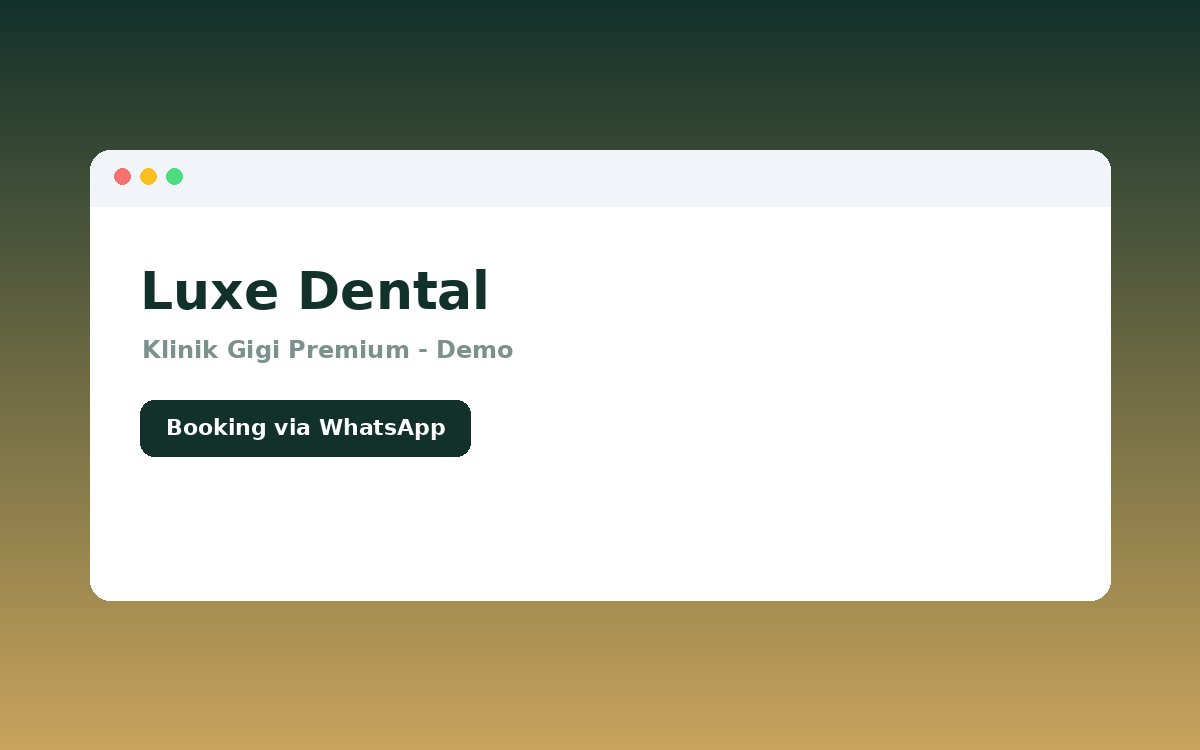
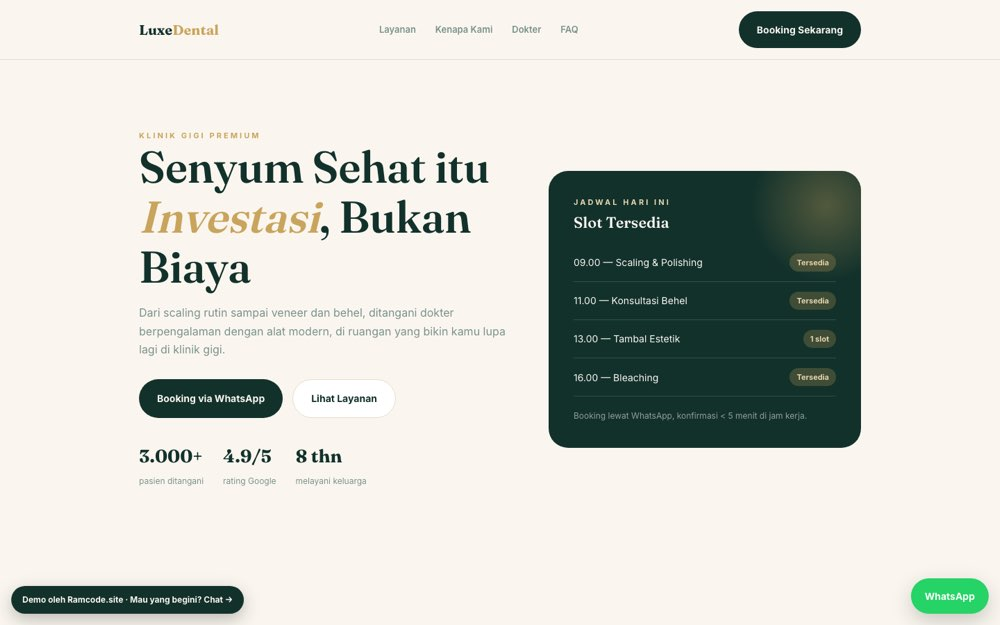
Thumbnail katalog pakai tangkapan layar situs, plus perbaikan hero Raudhah
Delapan demo (enam travel, Luxe Dental, KOKOH Kontraktor) sekarang memakai
tangkapan layar halamannya sendiri sebagai thumbnail, bukan foto lepas,
supaya sederet dengan kartu Sistem Kasir yang sudah begitu sejak awal.
Ditangkap di 1440x900 lalu dijadikan JPG 1000x625.

Sekalian membetulkan tumpang tindih di hero Raudhah pada lebar 980px ke
atas: .pick memakai grid dengan kolom yang bisa menyusut di bawah 300px,
sementara .pick__field dipaksa min-width 300px, jadi dropdown paket
meluber dan tertimpa tombol WA. Diganti flex dengan wrap, sehingga yang
turun ke baris bawah adalah tautan 'Lihat Paket & Harga'.

Kalimat 'itu alasan website kamu bisa jadi dalam hitungan hari' di catatan
template demo dihapus.

diff --git a/gallery.html b/gallery.html
@@ -350,7 +350,7 @@
                 <a href="proyek.html?p=lintas-trans" data-category="travel" class="gallery-item reveal bento-block group p-4 border-ocean-border/30 overflow-hidden cursor-pointer" data-delay="800">
                     <div class="strategic-frame aspect-[16/10] mb-5 rounded-xl overflow-hidden shadow-inner relative">
                         <span class="absolute top-3 left-3 z-10 px-2.5 py-1 rounded-full bg-white/90 backdrop-blur text-amber-600 text-[8px] font-extrabold uppercase tracking-widest shadow">Demo</span>
-                        <div class="w-full h-full bg-cover bg-center transition-transform duration-1000 group-hover:scale-105" data-cloudinary-src="/preview/lintastrans/assets/og-cover.jpg" data-as-bg></div>
+                        <div class="w-full h-full bg-cover bg-center transition-transform duration-1000 group-hover:scale-105" data-cloudinary-src="/porto/lintastrans.jpg" data-as-bg></div>
                     </div>
                     <div class="px-2 pb-2 flex justify-between items-end gap-2">
                         <div>
@@ -369,7 +369,7 @@
                 <a href="proyek.html?p=arka-rental" data-category="travel" class="gallery-item reveal bento-block group p-4 border-ocean-border/30 overflow-hidden cursor-pointer" data-delay="850">
                     <div class="strategic-frame aspect-[16/10] mb-5 rounded-xl overflow-hidden shadow-inner relative">
                         <span class="absolute top-3 left-3 z-10 px-2.5 py-1 rounded-full bg-white/90 backdrop-blur text-amber-600 text-[8px] font-extrabold uppercase tracking-widest shadow">Demo</span>
-                        <div class="w-full h-full bg-cover bg-center transition-transform duration-1000 group-hover:scale-105" data-cloudinary-src="/preview/arkarental/assets/hero-armada.webp" data-as-bg></div>
+                        <div class="w-full h-full bg-cover bg-center transition-transform duration-1000 group-hover:scale-105" data-cloudinary-src="/porto/arkarental.jpg" data-as-bg></div>
                     </div>
                     <div class="px-2 pb-2 flex justify-between items-end gap-2">
                         <div>
@@ -388,7 +388,7 @@
                 <a href="proyek.html?p=gentra-bus" data-category="travel" class="gallery-item reveal bento-block group p-4 border-ocean-border/30 overflow-hidden cursor-pointer" data-delay="900">
                     <div class="strategic-frame aspect-[16/10] mb-5 rounded-xl overflow-hidden shadow-inner relative">
                         <span class="absolute top-3 left-3 z-10 px-2.5 py-1 rounded-full bg-white/90 backdrop-blur text-amber-600 text-[8px] font-extrabold uppercase tracking-widest shadow">Demo</span>
-                        <div class="w-full h-full bg-cover bg-center transition-transform duration-1000 group-hover:scale-105" data-cloudinary-src="/preview/gentrabus/assets/og-gentrabus.jpg" data-as-bg></div>
+                        <div class="w-full h-full bg-cover bg-center transition-transform duration-1000 group-hover:scale-105" data-cloudinary-src="/porto/gentrabus.jpg" data-as-bg></div>
                     </div>
                     <div class="px-2 pb-2 flex justify-between items-end gap-2">
                         <div>
@@ -407,7 +407,7 @@
                 <a href="proyek.html?p=jelajah-trip" data-category="travel" class="gallery-item reveal bento-block group p-4 border-ocean-border/30 overflow-hidden cursor-pointer" data-delay="950">
                     <div class="strategic-frame aspect-[16/10] mb-5 rounded-xl overflow-hidden shadow-inner relative">
                         <span class="absolute top-3 left-3 z-10 px-2.5 py-1 rounded-full bg-white/90 backdrop-blur text-amber-600 text-[8px] font-extrabold uppercase tracking-widest shadow">Demo</span>
-                        <div class="w-full h-full bg-cover bg-center transition-transform duration-1000 group-hover:scale-105" data-cloudinary-src="/preview/jelajahtrip/assets/og-jelajahtrip.jpg" data-as-bg></div>
+                        <div class="w-full h-full bg-cover bg-center transition-transform duration-1000 group-hover:scale-105" data-cloudinary-src="/porto/jelajahtrip.jpg" data-as-bg></div>
                     </div>
                     <div class="px-2 pb-2 flex justify-between items-end gap-2">
                         <div>
@@ -426,7 +426,7 @@
                 <a href="proyek.html?p=raudhah" data-category="travel" class="gallery-item reveal bento-block group p-4 border-ocean-border/30 overflow-hidden cursor-pointer" data-delay="1000">
                     <div class="strategic-frame aspect-[16/10] mb-5 rounded-xl overflow-hidden shadow-inner relative">
                         <span class="absolute top-3 left-3 z-10 px-2.5 py-1 rounded-full bg-white/90 backdrop-blur text-amber-600 text-[8px] font-extrabold uppercase tracking-widest shadow">Demo</span>
-                        <div class="w-full h-full bg-cover bg-center transition-transform duration-1000 group-hover:scale-105" data-cloudinary-src="/preview/raudhah/assets/og-cover.webp" data-as-bg></div>
+                        <div class="w-full h-full bg-cover bg-center transition-transform duration-1000 group-hover:scale-105" data-cloudinary-src="/porto/raudhah.jpg" data-as-bg></div>
                     </div>
                     <div class="px-2 pb-2 flex justify-between items-end gap-2">
                         <div>
@@ -445,7 +445,7 @@
                 <a href="proyek.html?p=liburan-tenang" data-category="travel" class="gallery-item reveal bento-block group p-4 border-ocean-border/30 overflow-hidden cursor-pointer" data-delay="1050">
                     <div class="strategic-frame aspect-[16/10] mb-5 rounded-xl overflow-hidden shadow-inner relative">
                         <span class="absolute top-3 left-3 z-10 px-2.5 py-1 rounded-full bg-white/90 backdrop-blur text-amber-600 text-[8px] font-extrabold uppercase tracking-widest shadow">Demo</span>
-                        <div class="w-full h-full bg-cover bg-center transition-transform duration-1000 group-hover:scale-105" data-cloudinary-src="/preview/liburantenang/assets/hero-lembah.webp" data-as-bg></div>
+                        <div class="w-full h-full bg-cover bg-center transition-transform duration-1000 group-hover:scale-105" data-cloudinary-src="/porto/liburantenang.jpg" data-as-bg></div>
                     </div>
                     <div class="px-2 pb-2 flex justify-between items-end gap-2">
                         <div>

diff --git a/proyek.html b/proyek.html
@@ -102,7 +102,7 @@
             <section id="p-demo-note" class="col-span-12 hidden">
                 <div class="bento-block p-5 md:p-6 border-amber-200 bg-amber-50/50 flex items-start gap-3">
                     <span class="material-symbols-outlined text-amber-500 text-xl">info</span>
-                    <p class="text-sm text-slate-600 leading-relaxed">Ini <strong>template demo</strong>, bukan project klien. Template ini jadi basis pengerjaan, itu alasan website kamu bisa jadi dalam hitungan hari: tinggal disesuaikan dengan nama, foto, dan kebutuhan usahamu.</p>
+                    <p class="text-sm text-slate-600 leading-relaxed">Ini <strong>template demo</strong>, bukan project klien. Template ini jadi basis pengerjaan.</p>
                 </div>
             </section>
 
@@ -362,7 +362,7 @@
                 title: "Lintas Trans",
                 category: "Travel Shuttle",
                 badge: "demo",
-                img: "/preview/lintastrans/assets/og-cover.jpg",
+                img: "/porto/lintastrans.jpg",
                 url: "/preview/lintastrans/",
                 desc: "Template website travel door to door: rute, jadwal keberangkatan, dan harga per rute langsung di depan.",
                 masalah: "Penumpang travel shuttle cuma butuh tiga hal sebelum memesan: rutenya ada atau tidak, jam berapa berangkat, dan berapa harganya. Kalau tiga itu tidak langsung kelihatan, mereka pindah ke travel sebelah dalam hitungan detik.",
@@ -375,7 +375,7 @@
                 title: "Arka Trans Rental",
                 category: "Rental Mobil",
                 badge: "demo",
-                img: "/preview/arkarental/assets/hero-armada.webp",
+                img: "/porto/arkarental.jpg",
                 url: "/preview/arkarental/",
                 desc: "Template website rental mobil harian: katalog unit dengan harga yang ditulis terbuka di depan.",
                 masalah: "Calon penyewa membandingkan unit dan harga di beberapa tempat sekaligus. Rental yang harganya harus ditanya dulu lewat chat hampir selalu kalah cepat dari yang menulisnya terang-terangan.",
@@ -388,7 +388,7 @@
                 title: "Gentra Bus",
                 category: "Sewa Bus Pariwisata",
                 badge: "demo",
-                img: "/preview/gentrabus/assets/og-gentrabus.jpg",
+                img: "/porto/gentrabus.jpg",
                 url: "/preview/gentrabus/",
                 desc: "Template website sewa bus dan elf pariwisata, ditulis untuk panitia rombongan.",
                 masalah: "Yang menyewa bus itu panitia, bukan penumpang. Mereka butuh kapasitas unit, rincian harga borongan, dan kepastian armada berangkat, bukan foto pemandangan.",
@@ -401,7 +401,7 @@
                 title: "Jelajah Trip",
                 category: "Open Trip",
                 badge: "demo",
-                img: "/preview/jelajahtrip/assets/og-jelajahtrip.jpg",
+                img: "/porto/jelajahtrip.jpg",
                 url: "/preview/jelajahtrip/",
                 desc: "Template website open trip: jadwal keberangkatan, harga per orang, dan cek sisa seat.",
                 masalah: "Open trip biasanya dijual lewat story yang hilang dalam 24 jam. Calon peserta tidak bisa tahu jadwal terdekat dan sisa seat tanpa bertanya dulu, dan sebagian tidak jadi bertanya.",
@@ -414,7 +414,7 @@
                 title: "Raudhah Travel",
                 category: "Travel Umroh",
                 badge: "demo",
-                img: "/preview/raudhah/assets/og-cover.webp",
+                img: "/porto/raudhah.jpg",
                 url: "/preview/raudhah/",
                 desc: "Template website travel umroh yang menjual rasa aman, bukan cuma harga paket.",
                 masalah: "Yang dicari calon jamaah bukan harga termurah, tapi rasa aman. Apalagi yang berangkat pertama kali: takut ditinggal rombongan, takut uangnya dibawa kabur, takut tidak ada yang membimbing di sana.",
@@ -427,7 +427,7 @@
                 title: "Liburan Tenang",
                 category: "Glamping & Penginapan",
                 badge: "demo",
-                img: "/preview/liburantenang/assets/hero-lembah.webp",
+                img: "/porto/liburantenang.jpg",
                 url: "/preview/liburantenang/",
                 desc: "Template website glamping dan penginapan alam: tarif per malam terbuka dan cek tanggal lewat WhatsApp.",
                 masalah: "Penginapan alam dipesan berdasarkan dua hal: foto tempatnya dan tanggal yang masih kosong. Kalau tarif per malam dan isi tiap unit harus ditanya dulu, calon tamu keburu memesan di tempat lain.",

diff --git a/public/preview/raudhah/style.css b/public/preview/raudhah/style.css
@@ -409,10 +409,19 @@ html.js .rv.in{opacity:1;transform:none}
     right:max(20px, calc((100% - 1180px)/2 + 20px));
   }
   .arch img{width:330px;max-width:none}
-  .pick{order:3;margin:6px 0 0;padding:18px 18px 18px 26px;gap:20px;max-width:780px}
+  /* flex, bukan grid: kolom grid bisa menyusut di bawah 300px sementara
+     .pick__field tetap dipaksa 300px, jadi dropdown-nya meluber dan tertimpa
+     tombol WA. Dengan flex-wrap, kalau kartunya kurang lebar, tautan
+     "Lihat Paket & Harga" yang turun ke baris bawah. */
+  .pick{
+    order:3;margin:6px 0 0;padding:18px 18px 18px 26px;gap:14px 20px;max-width:780px;
+    display:flex;flex-wrap:wrap;align-items:center;
+  }
   /* label tetap di atas select supaya teks paket tidak terpotong */
-  .pick__field{min-width:300px}
+  .pick__field{flex:1 1 300px;min-width:300px}
   .pick__field select{min-width:0}
+  .pick .btn{flex:0 0 auto}
+  .pick__alt{flex:0 0 auto}
 
   .stats{padding:104px 0 0}
   .stat__n{font-size:46px}
